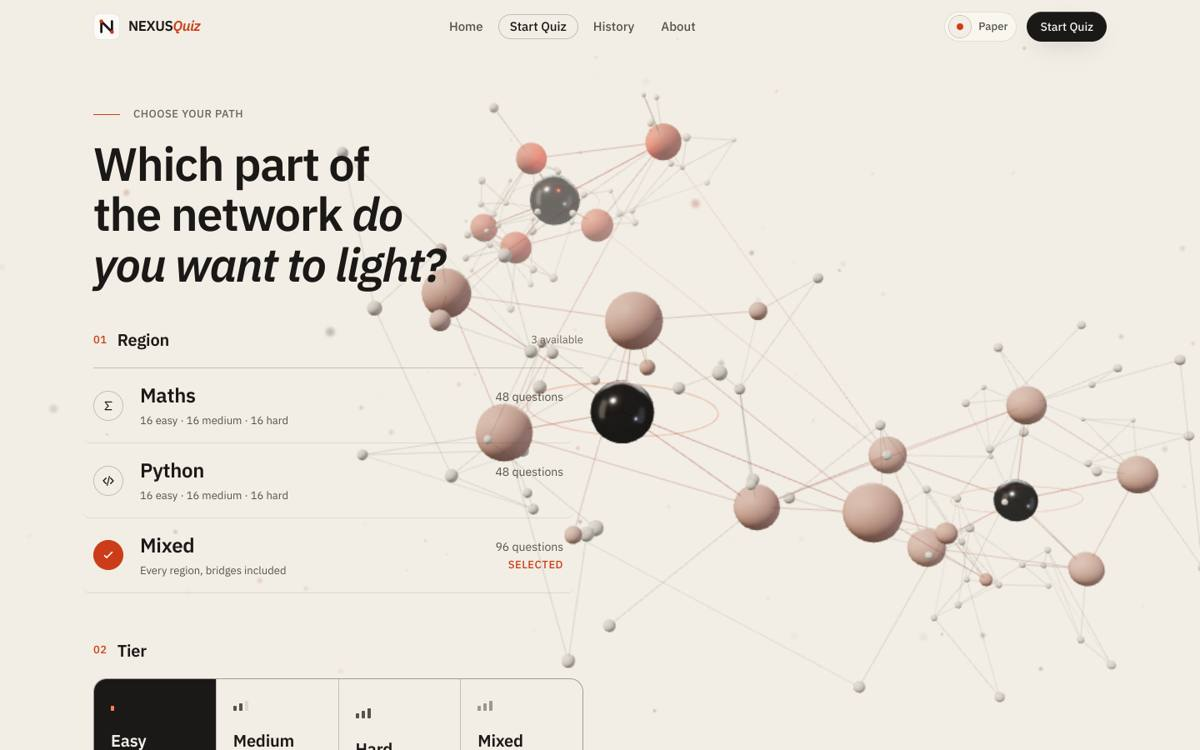
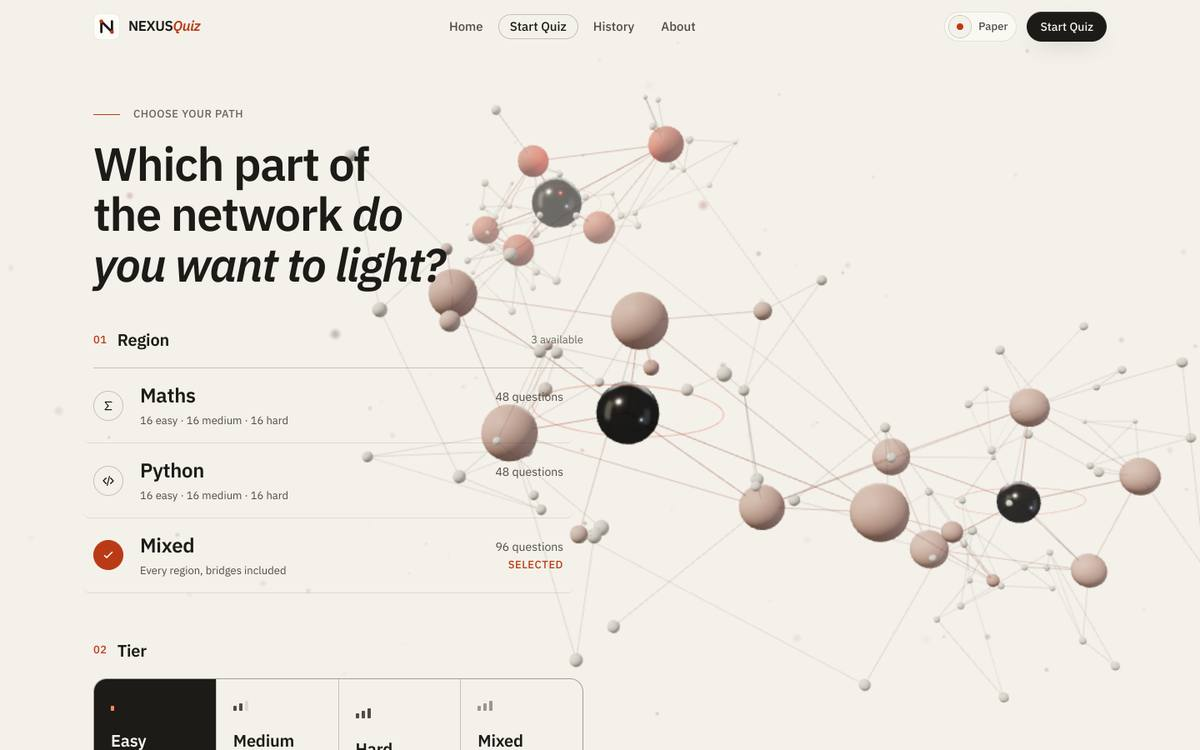
Warm light theme: token rewrite (parchment canvas, warm ink, vermilion), tinted shadows, surface hierarchy, measured contrast, docs

diff --git a/src/styles/tokens.css b/src/styles/tokens.css
@@ -19,46 +19,48 @@
 [data-theme='paper'] {
   color-scheme: light;
 
-  /* canvas & surfaces — on paper, elevation = lighter */
-  --nx-canvas-rgb: 242 238 229;        /* warm parchment */
-  --nx-surface-rgb: 233 228 217;       /* secondary background / recessed (warm gray) */
-  --nx-elevated-rgb: 247 244 237;      /* fields, inputs */
-  --nx-card-rgb: 249 246 240;          /* card — a tone up, never white */
-  --nx-card-strong-rgb: 252 250 246;   /* strongest surface */
+  /* ── Paper: canvas & surfaces. Three visible tones do the layering:
+        surface (recessed)  <  canvas (page)  <  card (lifted)  <  card-strong.
+        Nothing here is #FFFFFF. ─────────────────────────────────────── */
+  --nx-canvas-rgb: 244 241 234;        /* #F4F1EA warm parchment */
+  --nx-surface-rgb: 235 230 220;       /* #EBE6DC recessed warm gray — rails, quiet bands */
+  --nx-elevated-rgb: 248 246 240;      /* #F8F6F0 inputs / keys */
+  --nx-card-rgb: 250 248 243;          /* #FAF8F3 lifted paper */
+  --nx-card-strong-rgb: 253 252 249;   /* #FDFCF9 popovers, focused field */
 
-  /* text — warm ink, never pure black */
-  --nx-text-rgb: 26 25 23;
-  --nx-text-2-rgb: 84 82 77;
-  --nx-text-3-rgb: 104 100 92;         /* ≥4.5:1 on every paper surface incl. --nx-surface */
-  --nx-text-inverse-rgb: 255 255 255;
+  /* ── Ink: warm charcoal, never pure black ─────────────────────────── */
+  --nx-text-rgb: 28 27 24;             /* #1C1B18  15.3:1 on canvas */
+  --nx-text-2-rgb: 79 76 69;           /* #4F4C45   7.6:1 */
+  --nx-text-3-rgb: 104 100 92;         /* #68645C   5.1:1 on canvas, 4.6:1 on surface */
+  --nx-text-inverse-rgb: 246 243 236;
 
-  /* lines */
+  /* ── Lines: ink at low alpha so they warm with the surface beneath ── */
   --nx-line: rgb(var(--nx-text-rgb) / 0.10);
   --nx-line-subtle: rgb(var(--nx-text-rgb) / 0.06);
   --nx-line-strong: rgb(var(--nx-text-rgb) / 0.22);
 
-  /* signature accent — vermilion */
-  --nx-accent-rgb: 204 60 24;
-  --nx-accent-2-rgb: 168 52 16;        /* small accent text */
-  --nx-accent-dark-rgb: 132 40 12;     /* pressed / dense */
-  --nx-accent-on-ink-rgb: 255 128 84;  /* accent text on an ink panel */
+  /* ── Signature accent: vermilion. One hue, three strengths. ───────── */
+  --nx-accent-rgb: 186 58 22;          /* #BA3A16  5.0:1 canvas, 4.6:1 surface — passes AA at every size */
+  --nx-accent-2-rgb: 163 52 18;        /* #A33412  6.1:1 — small accent text */
+  --nx-accent-dark-rgb: 126 42 15;     /* #7E2A0F  pressed */
+  --nx-accent-on-ink-rgb: 255 138 92;  /* #FF8A5C  7.4:1 on an ink panel */
   --nx-accent-soft: rgb(var(--nx-accent-rgb) / 0.10);
   --nx-accent-glow: rgb(var(--nx-accent-rgb) / 0.22);
 
-  /* secondary accent — slate ink. Rare: info, cool 3D light, chart mean */
+  /* secondary tone — slate. Not a UI accent: 3D fill light + chart mean line only */
   --nx-accent-b-rgb: 58 76 110;
 
-  /* primary action — ink on paper */
-  --nx-cta-rgb: 26 25 23;
+  /* ── Primary action: ink on paper ─────────────────────────────────── */
+  --nx-cta-rgb: 28 27 24;
   --nx-cta-hover-rgb: 0 0 0;
-  --nx-cta-text-rgb: 244 241 234;
+  --nx-cta-text-rgb: 246 243 236;      /* 15.5:1 */
 
-  /* semantics — only where they carry meaning */
-  --nx-success-rgb: 22 118 78;
-  --nx-warning-rgb: 150 95 12;
-  --nx-error-rgb: 190 40 38;
+  /* ── Semantics — always paired with an icon or a word ─────────────── */
+  --nx-success-rgb: 31 111 74;         /* #1F6F4A 5.4:1 */
+  --nx-warning-rgb: 143 90 10;         /* #8F5A0A 5.1:1 */
+  --nx-error-rgb: 179 38 30;           /* #B3261E 5.8:1 */
 
-  /* states */
+  /* ── States ───────────────────────────────────────────────────────── */
   --nx-selected-rgb: var(--nx-accent-rgb);
   --nx-hover: rgb(var(--nx-text-rgb) / 0.04);
   --nx-focus: rgb(var(--nx-accent-rgb) / 0.9);
@@ -66,26 +68,33 @@
   --nx-track: rgb(var(--nx-text-rgb) / 0.10);
   --nx-score-rgb: var(--nx-text-rgb);
   --nx-disabled: rgb(var(--nx-text-rgb) / 0.06);
-  --nx-disabled-text-rgb: 150 147 140;
+  --nx-disabled-text-rgb: 138 133 122; /* #8A857A decorative / disabled only (3.3:1) */
 
-  /* decorative / atmosphere */
-  --nx-deco-1: rgb(var(--nx-accent-rgb) / 0.08);     /* warm light */
-  --nx-deco-2: rgb(var(--nx-accent-b-rgb) / 0.10);   /* cool field */
+  /* ── Atmosphere ───────────────────────────────────────────────────── */
+  --nx-deco-1: rgb(var(--nx-accent-rgb) / 0.07);     /* warm light, top-right */
+  --nx-deco-2: rgb(var(--nx-accent-b-rgb) / 0.08);   /* cool field, bottom-left */
   --nx-grid: rgb(var(--nx-text-rgb) / 0.05);
   --nx-noise-opacity: 0.06;
 
-  /* 3D material palette */
+  /* ── Shadows: tinted with warm ink-brown, diffuse, low alpha.
+        The inset top hairline is what makes a card read as paper stock. */
+  --nx-shadow-ink: 60 48 30;
+  --nx-shadow-1: 0 1px 0 0 rgb(255 255 255 / 0.6) inset, 0 1px 2px rgb(var(--nx-shadow-ink) / 0.05), 0 14px 36px -18px rgb(var(--nx-shadow-ink) / 0.18);
+  --nx-shadow-2: 0 1px 0 0 rgb(255 255 255 / 0.8) inset, 0 2px 4px rgb(var(--nx-shadow-ink) / 0.05), 0 30px 64px -26px rgb(var(--nx-shadow-ink) / 0.26);
+  --nx-shadow-inset: 0 0 0 1px rgb(var(--nx-shadow-ink) / 0.03) inset, 0 1px 6px rgb(var(--nx-shadow-ink) / 0.07) inset;
+  --nx-shadow-cta: 0 1px 0 0 rgb(255 255 255 / 0.18) inset, 0 12px 28px -14px rgb(var(--nx-cta-rgb) / 0.45);
+  --nx-shadow-cta-hover: 0 1px 0 0 rgb(255 255 255 / 0.22) inset, 0 18px 36px -14px rgb(var(--nx-cta-rgb) / 0.5);
+  --nx-highlight: rgb(255 255 255 / 0.5);           /* inner top edge on lifted surfaces */
+
+  /* ── 3D material palette (read by NexusScene) ─────────────────────── */
   --nx-3d-core: #1c1a17;
   --nx-3d-strut: #7d766b;
   --nx-3d-node: #fbf7ee;
   --nx-3d-shadow: #1a1917;
   --nx-3d-shadow-opacity: 0.32;
-  --nx-3d-key: #fff4e6;
-  --nx-3d-fill: #b9c6dd;
-
-  --nx-shadow-1: 0 1px 0 0 rgb(255 255 255 / 0.6) inset, 0 1px 2px rgb(60 48 30 / 0.05), 0 14px 36px -18px rgb(60 48 30 / 0.18);
-  --nx-shadow-2: 0 1px 0 0 rgb(255 255 255 / 0.8) inset, 0 2px 4px rgb(60 48 30 / 0.05), 0 30px 64px -26px rgb(60 48 30 / 0.26);
-  --nx-shadow-inset: 0 0 0 1px rgb(60 48 30 / 0.03) inset, 0 1px 6px rgb(60 48 30 / 0.07) inset;
+  --nx-3d-key: #fff4e6;      /* warm key — paper sunlight */
+  --nx-3d-fill: #b9c6dd;     /* cool fill for form separation */
+  --nx-3d-ground: #cdc4b4;   /* hemisphere ground bounce */
 }
 
 [data-theme='ink'] {
@@ -145,10 +154,15 @@
   --nx-3d-shadow-opacity: 0.5;
   --nx-3d-key: #fff1e0;
   --nx-3d-fill: #8aa0c8;
+  --nx-3d-ground: #1a1a1e;
 
+  --nx-shadow-ink: 0 0 0;
   --nx-shadow-1: 0 1px 0 0 rgb(255 255 255 / 0.04) inset, 0 12px 32px -14px rgb(0 0 0 / 0.55);
   --nx-shadow-2: 0 1px 0 0 rgb(255 255 255 / 0.06) inset, 0 28px 60px -20px rgb(0 0 0 / 0.65);
   --nx-shadow-inset: 0 0 12px rgb(0 0 0 / 0.25) inset;
+  --nx-shadow-cta: 0 1px 0 0 rgb(255 255 255 / 0.5) inset, 0 12px 28px -14px rgb(0 0 0 / 0.6);
+  --nx-shadow-cta-hover: 0 1px 0 0 rgb(255 255 255 / 0.6) inset, 0 18px 36px -14px rgb(0 0 0 / 0.7);
+  --nx-highlight: rgb(255 255 255 / 0.05);
 }
 
 /* ── Resolved aliases + motion system ─────────────────────────────── */

diff --git a/src/styles/globals.css b/src/styles/globals.css
@@ -197,12 +197,12 @@
     @apply btn px-6 py-3 t-button;
     background: var(--nx-cta);
     color: var(--nx-cta-text);
-    box-shadow: 0 1px 0 0 rgb(255 255 255 / 0.18) inset, 0 12px 28px -14px rgb(26 25 23 / 0.45);
+    box-shadow: var(--nx-shadow-cta);
   }
   .btn-primary:hover:not(:disabled) {
     background: var(--nx-cta-hover);
     transform: translateY(-1px);
-    box-shadow: 0 1px 0 0 rgb(255 255 255 / 0.22) inset, 0 18px 36px -14px rgb(26 25 23 / 0.5);
+    box-shadow: var(--nx-shadow-cta-hover);
   }
   /* the arrow inside a button travels; the label does not */
   .btn .arrow { transition: transform var(--nx-dur) var(--nx-ease); }
@@ -272,7 +272,7 @@
     background: var(--nx-card);
     border: 1px solid var(--nx-line);
     color: var(--nx-text);
-    box-shadow: 0 1px 0 0 rgb(255 255 255 / 0.03) inset;
+    box-shadow: 0 1px 0 0 var(--nx-highlight) inset;
     transition:
       transform 0.25s var(--nx-ease),
       box-shadow 0.25s var(--nx-ease),
@@ -481,7 +481,7 @@
     border-radius: 50%;
     background: var(--nx-cta);
     border: 2px solid var(--nx-canvas);
-    box-shadow: 0 0 0 1px var(--nx-line-strong), 0 4px 12px rgb(0 0 0 / 0.35);
+    box-shadow: 0 0 0 1px var(--nx-line-strong), 0 4px 12px rgb(var(--nx-shadow-ink) / 0.25);
     cursor: pointer;
     transition: transform 0.2s var(--nx-ease), box-shadow 0.2s var(--nx-ease);
   }

diff --git a/src/components/three/NexusScene.tsx b/src/components/three/NexusScene.tsx
@@ -34,6 +34,7 @@ interface Palette {
   line: THREE.Color
   key: string
   fill: string
+  ground: string
   dark: boolean
 }
 
@@ -51,6 +52,7 @@ function readPalette(): Palette {
     line: new THREE.Color(readToken('--nx-3d-strut') || '#8d8880'),
     key: readToken('--nx-3d-key') || '#fff4e6',
     fill: readToken('--nx-3d-fill') || '#b9c6dd',
+    ground: readToken('--nx-3d-ground') || (dark ? '#1a1a1e' : '#cdc4b4'),
     dark,
   }
 }
@@ -689,7 +691,7 @@ function NetworkObject({ palette, quality }: { palette: Palette; quality: Qualit
 function Lights({ palette }: { palette: Palette }) {
   return (
     <>
-      <hemisphereLight args={[palette.key, palette.dark ? '#1a1a1e' : '#c9bfae', palette.dark ? 0.45 : 0.75]} />
+      <hemisphereLight args={[palette.key, palette.ground, palette.dark ? 0.45 : 0.75]} />
       {/* key: warm, high-left — the reading lamp */}
       <directionalLight position={[-4, 6, 5]} intensity={palette.dark ? 1.7 : 1.9} color={palette.key} />
       {/* fill: cool, low-right, quiet */}

diff --git a/src/pages/Result.tsx b/src/pages/Result.tsx
@@ -86,7 +86,7 @@ export default function Result() {
             initial={{ opacity: 0, y: 18 }}
             animate={{ opacity: 1, y: 0 }}
             transition={{ duration: 0.7, delay: 0.6, ease }}
-            className="lg:col-span-5 lg:pl-10 lg:border-l lg:border-line grid grid-cols-2 gap-x-8"
+            className="lg:col-span-5 surface rounded-2xl p-6 sm:p-8 grid grid-cols-2 gap-x-8"
           >
             <Ledger label="Score" delay={0.7}>
               <CountUp value={result.score} decimals={Number.isInteger(result.score) ? 0 : 1} delay={0.7} />

diff --git a/index.html b/index.html
@@ -4,7 +4,7 @@
     <meta charset="UTF-8" />
     <link rel="icon" type="image/svg+xml" href="/favicon.svg" />
     <meta name="viewport" content="width=device-width, initial-scale=1.0, viewport-fit=cover" />
-    <meta name="theme-color" content="#f2eee5" />
+    <meta name="theme-color" content="#f4f1ea" />
     <meta name="description" content="NEXUSQuiz — Test your knowledge. Build your mastery. A premium quiz platform for Maths and Python." />
     <script>
       try {

diff --git a/docs/LIGHT-THEME.md b/docs/LIGHT-THEME.md
@@ -1,0 +1,91 @@
+# NEXUSQuiz — Warm light theme (Paper)
+
+Scope of this pass: colours, surfaces, borders and shadows only. Typography,
+layout, 3D, quiz logic, API and backend are untouched. Every colour in the UI
+resolves to a semantic token in `src/styles/tokens.css`; components never
+hard-code a hex value (the only literals left are the three studio light
+formers inside the 3D scene and the fallback values in `theme.ts`).
+
+Light ("Paper") is the default. Dark ("Ink") stays as the alternative and
+received only the new shadow / highlight / ground tokens so the same CSS works
+in both.
+
+## Direction
+
+Reading product → light default (positive polarity helps small text; NN/g
+"Dark Mode vs. Light Mode"). The palette is built like printed stock rather
+than an inverted dark UI:
+
+| Principle                   | How it shows up                                                          |
+| --------------------------- | ------------------------------------------------------------------------ |
+| Warm, never white           | No `#FFFFFF` anywhere. Canvas is parchment `#F4F1EA`; the brightest tone in the whole system is `#FDFCF9` (popovers / focused fields). |
+| Ink, never black            | Primary text `#1C1B18` (warm charcoal). Pure black only appears as the CTA *hover* state, so the button visibly darkens. |
+| Tone hierarchy, not shadow hierarchy | Four surface tones layer the page: recessed `#EBE6DC` < canvas `#F4F1EA` < card `#FAF8F3` < card-strong `#FDFCF9`. Shadows are secondary. |
+| Borders are ink, not gray   | Lines are the text colour at 6 / 10 / 22 % alpha, so they warm with whatever sits beneath them instead of reading as cold gray. |
+| Shadows are tinted          | All shadows use `--nx-shadow-ink: 60 48 30` (a warm brown), large blur, negative spread, ≤ 26 % alpha. Cards also get a 1 px white-ish inset top edge (`--nx-highlight`) — the thing that makes paper read as paper. |
+| One accent, three strengths | Vermilion `#BA3A16` for marks and UI, `#A33412` for small accent text, `#7E2A0F` pressed. Slate `#3A4C6E` is a 3D fill light and the chart mean line only — never a UI accent. |
+| Restraint                   | Accent appears as index numbers, the selected state, the progress rule and the logo. The primary CTA is ink, not accent. |
+
+## Token table (Paper)
+
+| Role                      | Token                        | Value      |
+| ------------------------- | ---------------------------- | ---------- |
+| Canvas                    | `--nx-canvas`                | `#F4F1EA`  |
+| Recessed surface          | `--nx-surface`               | `#EBE6DC`  |
+| Elevated (inputs, keys)   | `--nx-elevated`              | `#F8F6F0`  |
+| Card                      | `--nx-card`                  | `#FAF8F3`  |
+| Card strong               | `--nx-card-strong`           | `#FDFCF9`  |
+| Text                      | `--nx-text`                  | `#1C1B18`  |
+| Text secondary            | `--nx-text-2`                | `#4F4C45`  |
+| Text tertiary             | `--nx-text-3`                | `#68645C`  |
+| Line / subtle / strong    | `--nx-line*`                 | ink @ 10 / 6 / 22 % |
+| Accent                    | `--nx-accent`                | `#BA3A16`  |
+| Accent (small text)       | `--nx-accent-2`              | `#A33412`  |
+| Accent pressed            | `--nx-accent-dark`           | `#7E2A0F`  |
+| Accent on ink panel       | `--nx-accent-on-ink`         | `#FF8A5C`  |
+| CTA / hover / text        | `--nx-cta*`                  | `#1C1B18` / `#000000` / `#F6F3EC` |
+| Success / warning / error | `--nx-success` …             | `#1F6F4A` / `#8F5A0A` / `#B3261E` |
+| Disabled text             | `--nx-disabled-text`         | `#8A857A` (decorative only) |
+| Shadow tint               | `--nx-shadow-ink`            | `60 48 30` |
+| Highlight (inset edge)    | `--nx-highlight`             | white @ 50 % |
+| 3D ground bounce          | `--nx-3d-ground`             | `#CDC4B4`  |
+
+## Measured contrast (WCAG 2.2, relative-luminance formula)
+
+Requirement: normal text ≥ 4.5:1, large text (≥ 24 px, or ≥ 19 px semibold) and UI graphics ≥ 3:1.
+
+| Foreground        | canvas | surface | elevated | card  | card-strong |
+| ----------------- | -----: | ------: | -------: | ----: | ----------: |
+| text `#1C1B18`    | 15.27  | 13.85   | 15.94    | 16.23 | 16.79 |
+| text-2 `#4F4C45`  | 7.59   | 6.89    | 7.92     | 8.07  | 8.35  |
+| text-3 `#68645C`  | 5.22   | 4.73    | 5.45     | 5.55  | 5.74  |
+| accent `#BA3A16`  | 5.03   | 4.56    | 5.24     | 5.34  | 5.52  |
+| accent-2 `#A33412`| 6.09   | 5.52    | 6.36     | 6.47  | 6.70  |
+| success `#1F6F4A` | 5.43   | 4.92    | 5.66     | 5.77  | 5.97  |
+| warning `#8F5A0A` | 5.12   | 4.65    | 5.35     | 5.44  | 5.63  |
+| error `#B3261E`   | 5.79   | 5.26    | 6.05     | 6.16  | 6.37  |
+| disabled `#8A857A`| 3.26   | 2.95    | 3.40     | 3.46  | 3.58  |
+
+CTA text on CTA: 15.54. Accent-on-ink on the ink panel: 7.42.
+
+Every text token used for real copy clears 4.5:1 on every surface it can sit
+on. `--nx-disabled-text` is the only sub-4.5 value and is reserved for disabled
+controls and decorative marks (not required to pass under SC 1.4.3).
+
+The Ink theme's colours are unchanged from the previous pass (all text ≥ 4.5:1
+was verified then); it only gained the new shadow / highlight / ground tokens.
+
+## What changed in code
+
+- `src/styles/tokens.css` — Paper block rewritten (values above); new
+  `--nx-shadow-ink`, `--nx-shadow-cta`, `--nx-shadow-cta-hover`,
+  `--nx-highlight`, `--nx-3d-ground` in both themes.
+- `src/styles/globals.css` — `.btn-primary`, `.choice` and `.nx-range` now use
+  the shadow / highlight tokens instead of literal rgba values.
+- `src/pages/Result.tsx` — the score ledger sits on a `.surface` card so the
+  numbers no longer read directly against the 3D network (one class change,
+  no layout or logic change).
+- `src/components/three/NexusScene.tsx` — the hemisphere light reads
+  `--nx-3d-ground`, so the network's under-side bounce matches the paper.
+- `index.html`, `public/favicon.svg` — browser chrome colour and favicon
+  updated to the new canvas / ink / accent values.
